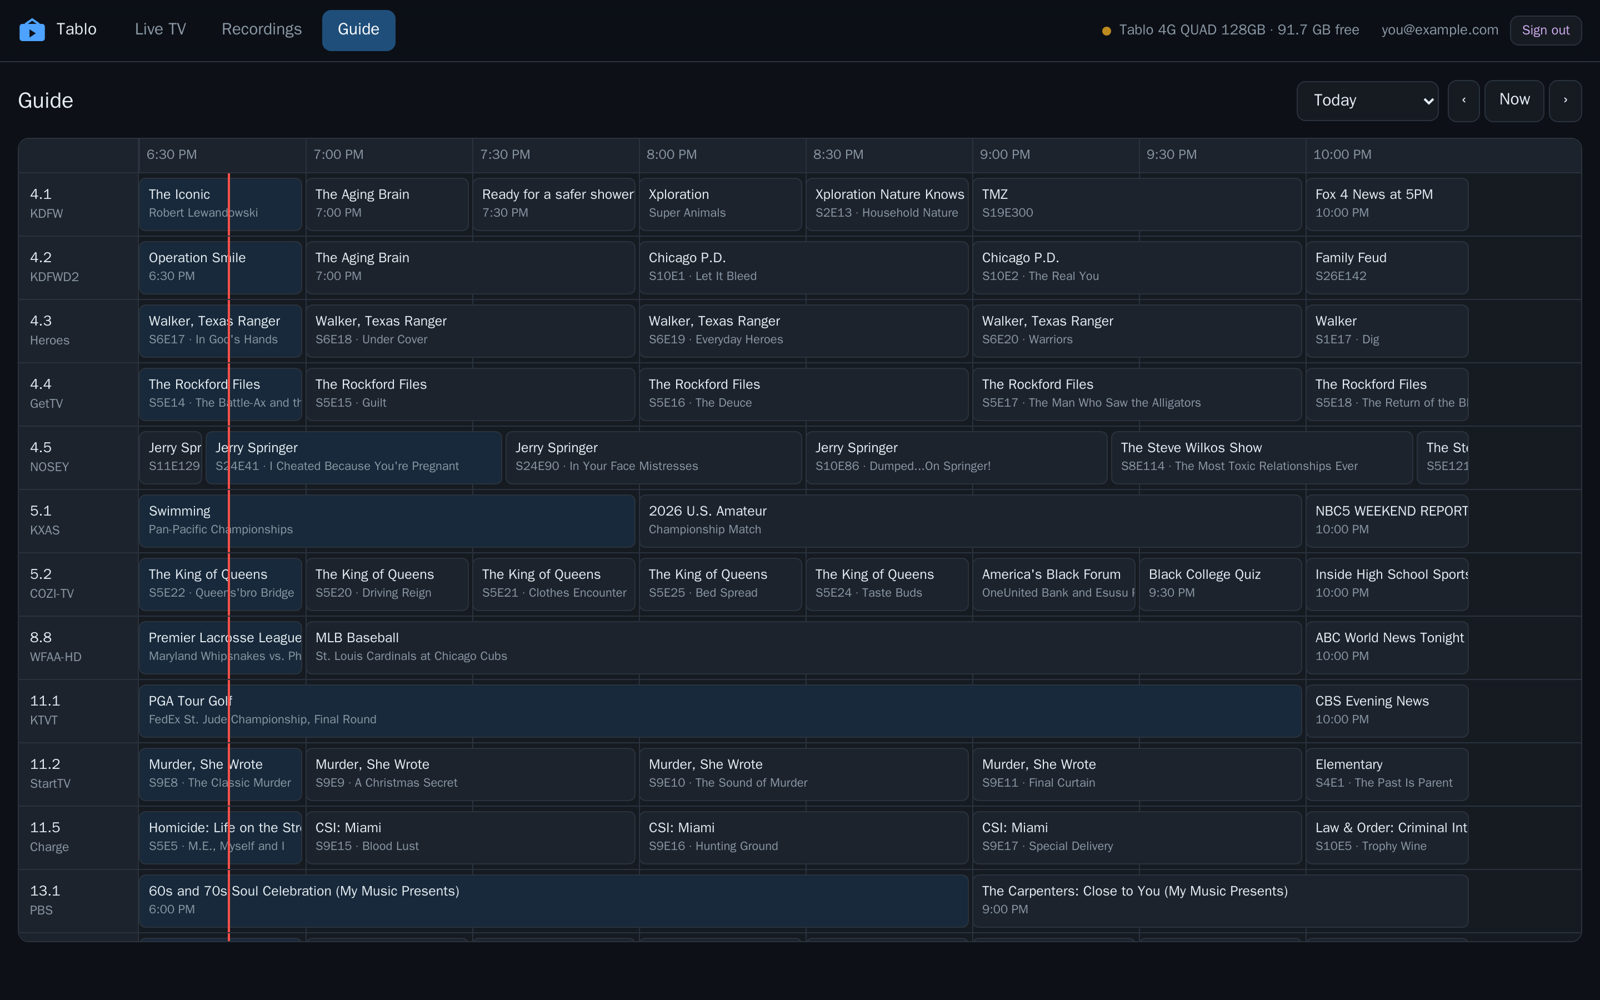
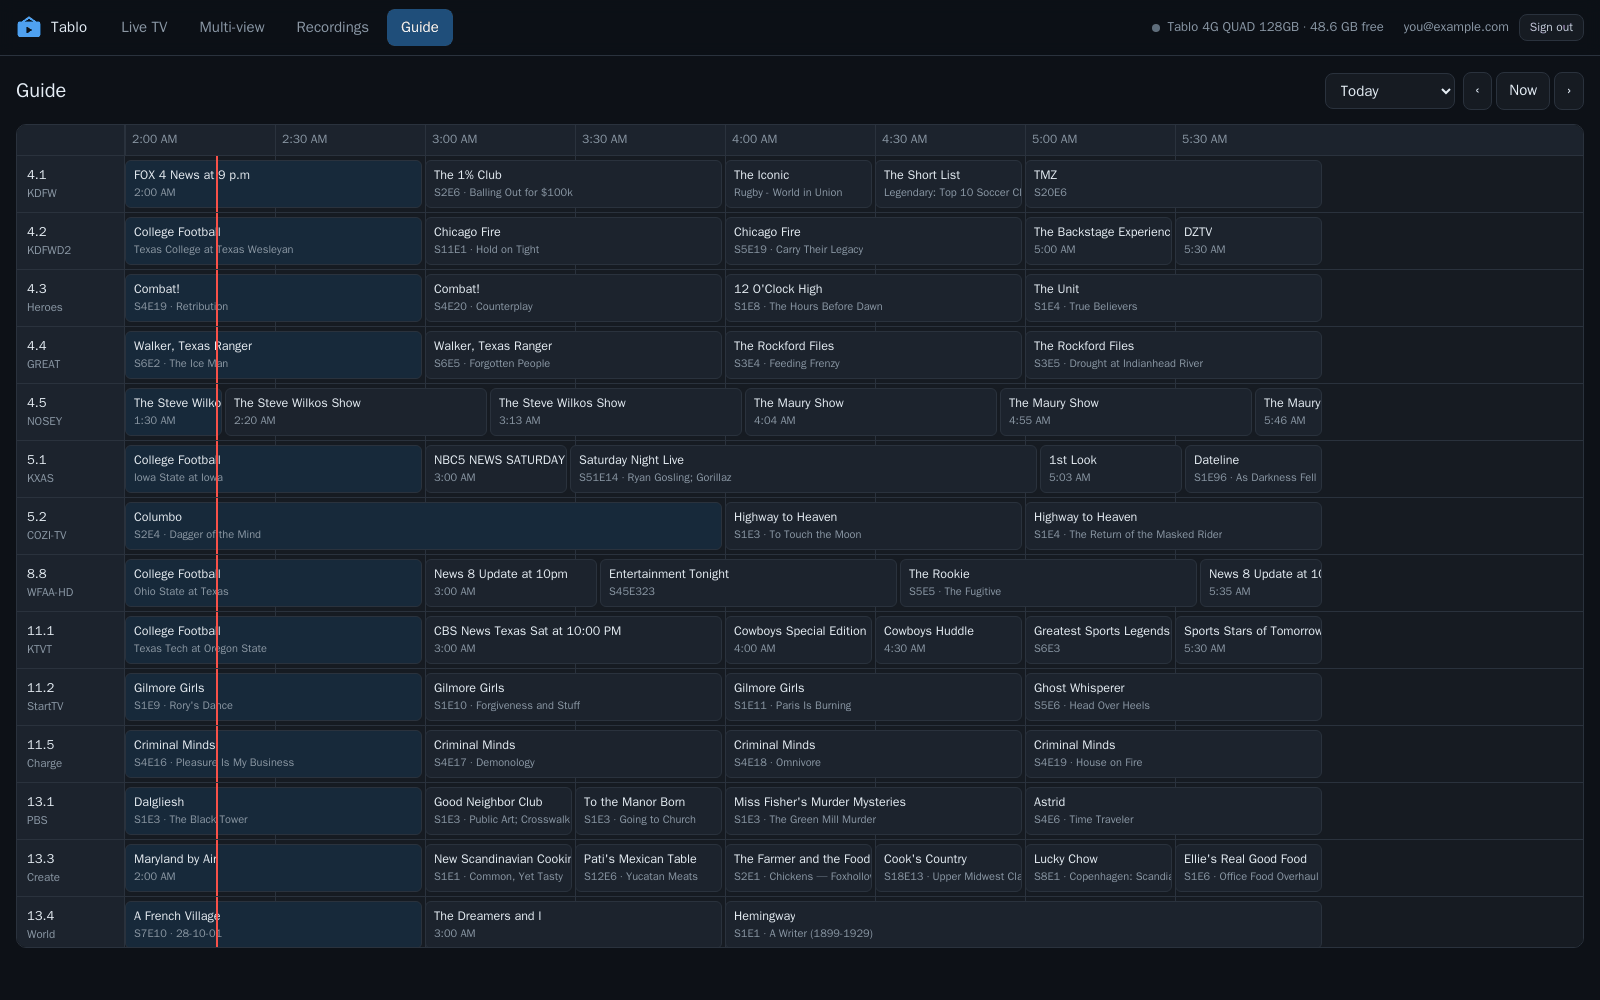
docs: re-shoot the screenshots so the tab bar has Multi-view
The guide, live and recordings images predated the tab, so the first picture in
the README showed a nav that contradicted the feature list two paragraphs below
it. Same views, same 1600x1000 framing, account chip still a placeholder, plus a
shot of the channel picker for the configuration page.

Claude-Session: https://claude.ai/code/session_01DjMymC6kqw4VwLVECCSbvF

diff --git a/CHANGELOG.md b/CHANGELOG.md
@@ -20,7 +20,9 @@ Watch 2–4 live channels at once, tiled into a single picture.
 - New settings: `TABLOWEB_MOSAIC_DIR`, `TABLOWEB_MOSAIC_DEINT`, `TABLOWEB_MOSAIC_LOWRES`,
   `TABLOWEB_MOSAIC_BOX_THICKNESS`. See [docs/configuration.md](docs/configuration.md).
 - `docs/images/multi-view.png` — four channels running at once, so the README shows the thing
-  rather than describing it.
+  rather than describing it, plus `multi-view-picker.png` for how the channels are chosen.
+- Re-shot `guide.png`, `live-tv.png` and `recordings.png`: their tab bars predated the
+  **Multi-view** tab, so the first thing anyone saw in the README contradicted the feature list.
 
 Carried over with it, from running this in anger:
 

diff --git a/docs/configuration.md b/docs/configuration.md
@@ -90,6 +90,11 @@ sure the proxy sets it, or every viewer will look remote.
 
 ![Four channels in multi-view](images/multi-view.png)
 
+Pick the channels from the **Multi-view** tab — the order you pick them in is the order the panes
+are laid out:
+
+![Choosing the channels](images/multi-view-picker.png)
+
 | Variable | Default | |
 |---|---|---|
 | `TABLOWEB_MOSAIC_DIR` | `mosaic/` beside the binary | Where the tiled segments are written |
